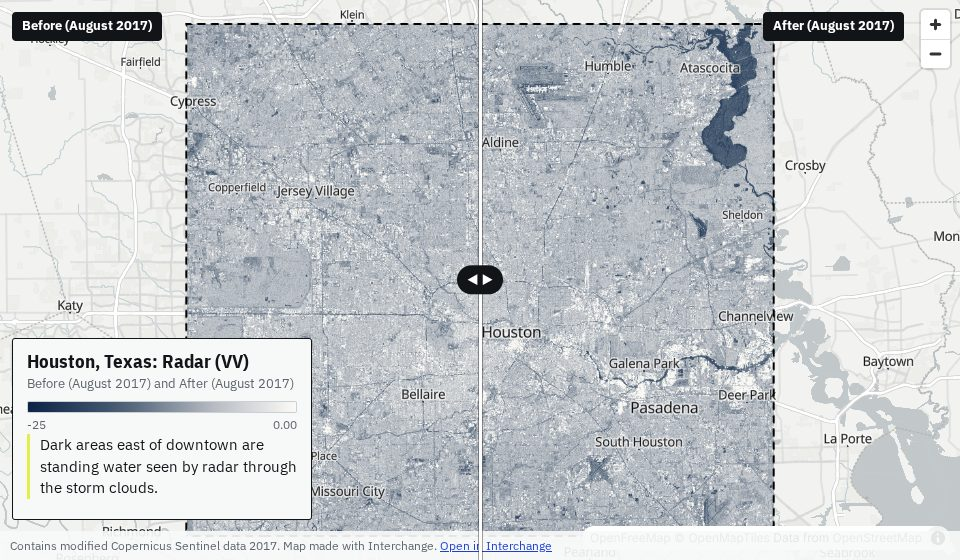
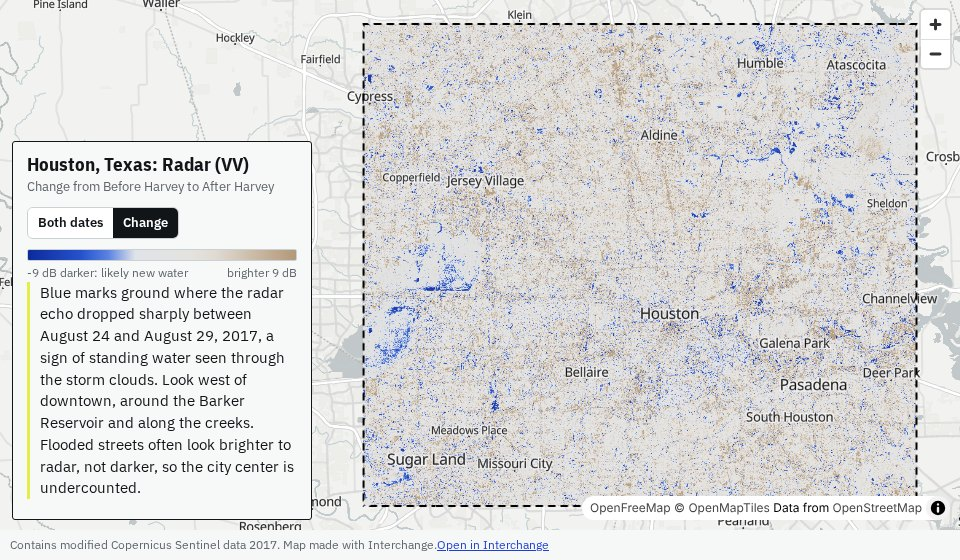
Embedded maps frame the area to the right of their card; newsroom picture redrawn from the corrected Harvey change map
Claude-Session: https://claude.ai/code/session_01APZ1daY5R8aaDYNWC8hJw6

diff --git a/src/ui/MapView.tsx b/src/ui/MapView.tsx
@@ -28,6 +28,8 @@ export interface MapViewProps {
   shape?: [number, number][][];
   /** Leave the scroll wheel to the page (embeds and journeys). */
   cooperative?: boolean;
+  /** Pixels a card covers on the map's left edge; the area is framed to the right of it. */
+  padLeft?: number;
 }
 
 function grab(m: MlMap): Promise<HTMLCanvasElement> {
@@ -44,7 +46,7 @@ function grab(m: MlMap): Promise<HTMLCanvasElement> {
   });
 }
 
-export function MapView({ bbox, corners, url, beforeUrl, labels, marker, onClick, clickable, captureRef, captureBaseRef, onHover, probe, shape, cooperative }: MapViewProps) {
+export function MapView({ bbox, corners, url, beforeUrl, labels, marker, onClick, clickable, captureRef, captureBaseRef, onHover, probe, shape, cooperative, padLeft }: MapViewProps) {
   const wrapRef = useRef<HTMLDivElement>(null);
   const aRef = useRef<HTMLDivElement>(null);
   const bRef = useRef<HTMLDivElement>(null);
@@ -95,7 +97,7 @@ export function MapView({ bbox, corners, url, beforeUrl, labels, marker, onClick
   // Map A always exists. In swipe mode it shows the "before" layer on the left; map B
   // sits on top, clipped to the right of the divider, showing "after".
   useEffect(() => {
-    const a = createMap(aRef.current!, bbox, { cooperative });
+    const a = createMap(aRef.current!, bbox, { cooperative, padLeft });
     mapA.current = a;
     a.on('click', (e) => clickRef.current?.([e.lngLat.lng, e.lngLat.lat]));
     // Fine pointers only: on touch, a probe under the finger just gets in the way.

diff --git a/src/ui/maplib.ts b/src/ui/maplib.ts
@@ -7,12 +7,13 @@ import type { Bbox } from '../runtime/geo';
 
 export const BASEMAP = 'https://tiles.openfreemap.org/styles/positron';
 
-export function createMap(container: HTMLElement, bbox: Bbox, opts: { interactive?: boolean; cooperative?: boolean } = {}): MlMap {
+export function createMap(container: HTMLElement, bbox: Bbox, opts: { interactive?: boolean; cooperative?: boolean; padLeft?: number } = {}): MlMap {
   const map = new MlMap({
     container,
     style: BASEMAP,
     bounds: bbox as [number, number, number, number],
-    fitBoundsOptions: { padding: 24 },
+    // Room on the left when a card sits over the map there, so the area isn't hidden under it.
+    fitBoundsOptions: { padding: { top: 24, bottom: 24, right: 24, left: 24 + (opts.padLeft ?? 0) } },
     attributionControl: opts.interactive === false ? false : { compact: true },
     interactive: opts.interactive ?? true,
     fadeDuration: 0,

diff --git a/src/ui/AppRuntime.tsx b/src/ui/AppRuntime.tsx
@@ -281,6 +281,7 @@ export function AppRuntime({
       captureBaseRef={captureBaseRef}
       shape={spec.aoi.shape}
       cooperative={mode === 'embed'}
+      padLeft={mode === 'embed' && typeof window !== 'undefined' && window.innerWidth >= 700 ? 320 : 0}
       onHover={(h) => setHoverAt(h ? { lonLat: h.lonLat, side: h.side } : null)}
       probe={probe}
     />
